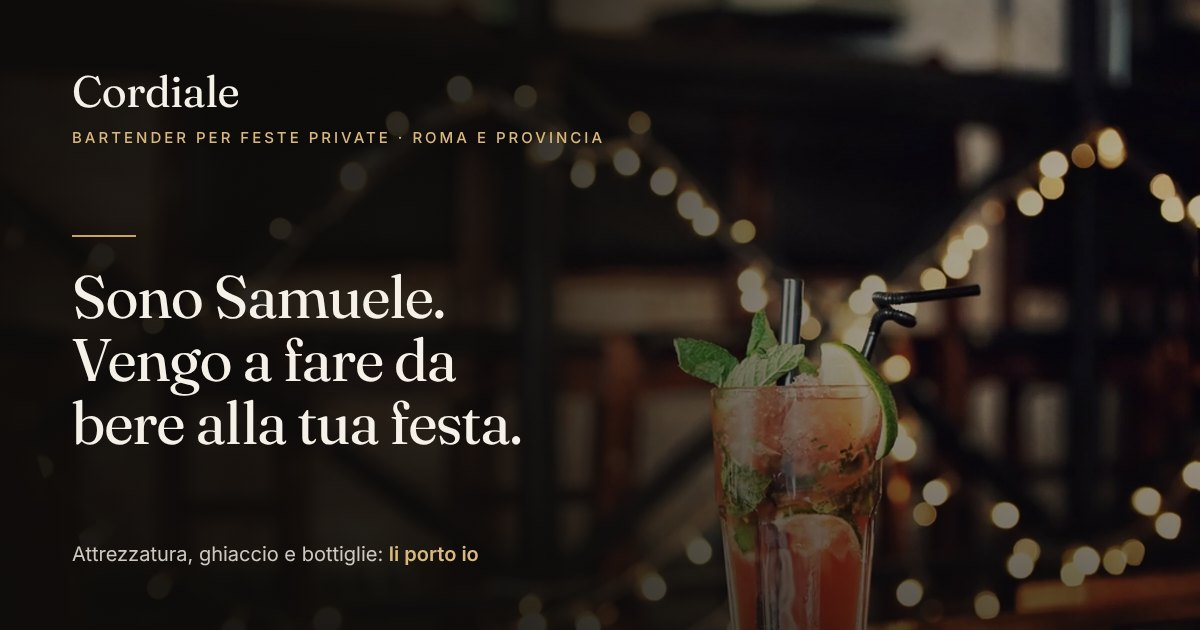
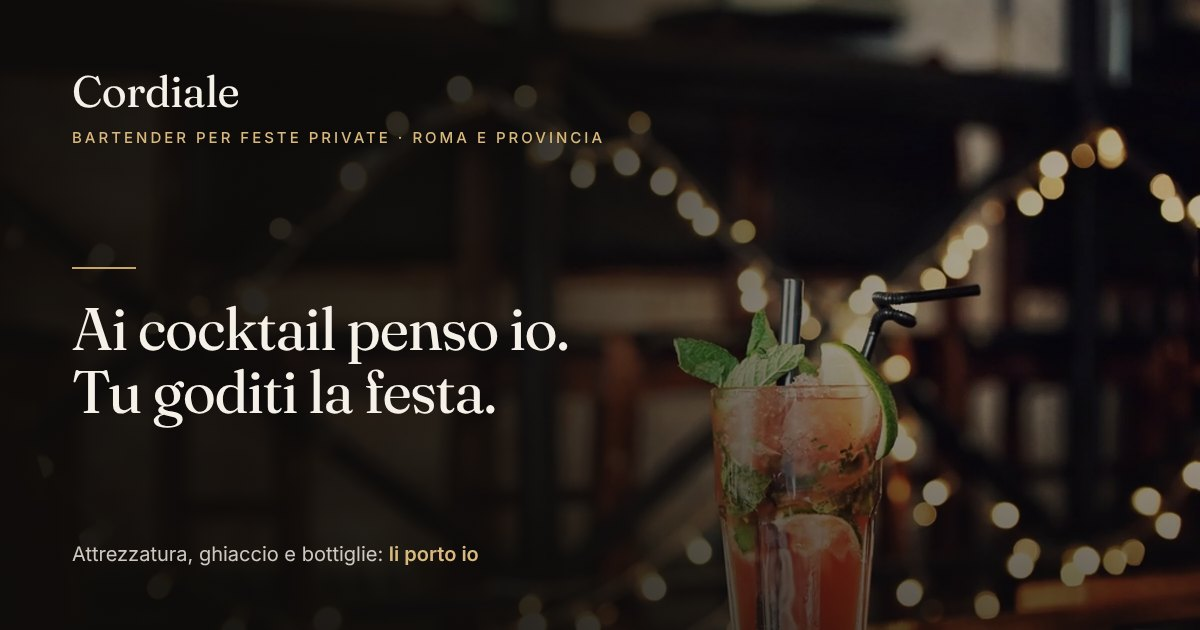
Nuovo titolo della home: "Ai cocktail penso io. Tu goditi la festa."
Il titolo prende l'idea proposta da Samuele, con le parole nell'ordine in
cui si dice ("ci penso io"): "Io penso ai cocktail" si leggeva anche come
"rifletto sui cocktail". In inglese: "I'll take care of the cocktails.
You enjoy the party."

Il sottotitolo non ripete più lo stesso concetto ("Tu pensi agli ospiti")
e riprende il nome uscito dal titolo: "Sono Samuele. Porto io
attrezzatura, ghiaccio e bottiglie e preparo i drink sul posto."

- Ogni frase del titolo va su una riga sua: il bilanciamento automatico
  lo spezzava a metà ("Ai cocktail penso / io. Tu…").
- Velatura dell'apertura un po' più scura dove finisce la prima riga, che
  al computer passa sopra il bicchiere: da 3,9:1 a 5,1:1 nel punto
  peggiore.
- Immagine social rigenerata con il nuovo titolo, una frase per riga.

Su un sito già installato il titolo cambia da solo, a meno che sia stato
modificato dal pannello (Testi e contatti → Home · 1. Apertura).

Verifiche: tsc, eslint e build puliti; 41 URL con lo stato atteso; axe
WCAG 2.2 AA sulla home in italiano e inglese, telefono e desktop, nei due
temi: 0 violazioni; a capo controllati a 1440, 1280, 1024, 820, 390 e
360 px; testo sopra la foto almeno 5:1 ovunque.

Claude-Session: https://claude.ai/code/session_01GvCzQ5UEymkMrF9UDs3Cu9

Changed region(s): [[0.0617, 0.4222, 0.4625, 0.7238], [0.0617, 0.3619, 0.0925, 0.3921]]

diff --git a/src/components/pages/HomePage.tsx b/src/components/pages/HomePage.tsx
@@ -1,3 +1,4 @@
+import { Fragment } from 'react';
 import Link from 'next/link';
 import { Media, mediaExists } from '@/components/Media';
 import { FinalCta } from '@/components/blocks/FinalCta';
@@ -36,6 +37,9 @@ export async function HomePage({ locale }: { locale: Locale }) {
   const whatsappHref = whatsappLink(settings.contact.whatsapp, t(settings.contact.whatsappMessage, locale));
   // A missing file would put the light placeholder under light type.
   const heroImage = mediaExists(settings.hero.imagePath) ? settings.hero.imagePath : '';
+  // One sentence per line: balancing the whole title broke a two-sentence
+  // headline mid-sentence ("Ai cocktail penso / io. Tu goditi…").
+  const heroLines = t(settings.hero.title, locale).split(/(?<=[.!?])\s+/);
 
   const featured = cocktails.slice(0, 3);
   const eventLinks = landings.map((landing) => ({
@@ -87,13 +91,20 @@ export async function HomePage({ locale }: { locale: Locale }) {
         <div className="hero-content container-page w-full pb-14 pt-32 md:pb-20 md:pt-40 lg:pb-24">
           <div className="max-w-2xl lg:max-w-3xl">
             {/* The kicker sits inside the h1 on purpose: the headline is a
-                person talking ("Sono Samuele…") and carries no search terms,
+                person talking ("Ai cocktail penso io…") and carries no search terms,
                 so what he does and where is read as part of the heading. */}
             <h1>
               <span className="eyebrow eyebrow-ruled block">{t(settings.hero.eyebrow, locale)}</span>
               {/* Invisible between two blocks, but without it the heading's
-                  text reads "…Roma e provinciaSono Samuele" to a crawler. */}{' '}
-              <span className="display-hero text-shadow-hero mt-5 block">{t(settings.hero.title, locale)}</span>
+                  text reads "…Roma e provinciaAi cocktail" to a crawler. */}{' '}
+              <span className="display-hero text-shadow-hero mt-5 block">
+                {heroLines.map((line, index) => (
+                  <Fragment key={index}>
+                    {index > 0 && ' '}
+                    <span className="block">{line}</span>
+                  </Fragment>
+                ))}
+              </span>
             </h1>
             <p className="lede mt-6 max-w-xl">{t(settings.hero.subtitle, locale)}</p>
 

diff --git a/src/content/settings.ts b/src/content/settings.ts
@@ -195,12 +195,14 @@ export const defaultSettings: SiteSettings = {
       en: 'Private party bartender · Rome and province',
     },
     title: {
-      it: 'Sono Samuele. Vengo a fare da bere alla tua festa.',
-      en: 'I’m Samuele. I’ll make the drinks at your party.',
+      it: 'Ai cocktail penso io. Tu goditi la festa.',
+      en: 'I’ll take care of the cocktails. You enjoy the party.',
     },
+    // The name moved here from the title: the opening still says who, what
+    // and where — the eyebrow carries the what and the where.
     subtitle: {
-      it: 'Porto io attrezzatura, ghiaccio e bottiglie. Tu pensi agli ospiti.',
-      en: 'I bring the kit, the ice and the bottles. You look after your guests.',
+      it: 'Sono Samuele. Porto io attrezzatura, ghiaccio e bottiglie e preparo i drink sul posto.',
+      en: 'I’m Samuele. I bring the kit, the ice and the bottles, and make the drinks on the spot.',
     },
     primaryCta: { it: 'Chiedimi un preventivo', en: 'Ask me for a quote' },
     imagePath: '/images/hero/hero-main.jpg',

diff --git a/src/app/globals.css b/src/app/globals.css
@@ -642,7 +642,7 @@
     .hero-scrim {
       background:
         linear-gradient(to bottom, rgb(14 12 10 / 0.86) 0%, rgb(14 12 10 / 0.62) 9%, rgb(14 12 10 / 0) 26%),
-        linear-gradient(100deg, rgb(14 12 10 / 0.92) 0%, rgb(14 12 10 / 0.78) 38%, rgb(14 12 10 / 0.3) 68%, rgb(14 12 10 / 0.12) 100%),
+        linear-gradient(100deg, rgb(14 12 10 / 0.92) 0%, rgb(14 12 10 / 0.8) 40%, rgb(14 12 10 / 0.5) 62%, rgb(14 12 10 / 0.18) 82%, rgb(14 12 10 / 0.1) 100%),
         linear-gradient(to top, rgb(14 12 10 / 0.6) 0%, rgb(14 12 10 / 0) 45%);
     }
   }

diff --git a/docs/04-design-system.md b/docs/04-design-system.md
@@ -226,8 +226,11 @@ Requisiti trattati come vincoli di build, non come rifiniture.
   aperto il resto della pagina è `inert`: il `Tab` non finisce su link coperti.
 - **Testo sopra la foto** — axe non sa misurarlo, quindi è misurato a parte:
   il colore del testo contro il pixel più chiaro (99° percentile) della foto
-  velata dietro ogni riga. Minimo 5,2:1 (l'occhiello al telefono), titolo e
-  sottotitolo sopra 10:1, voci dell'intestazione sopra 8:1.
+  velata dietro ogni riga. Minimo 5:1 (l'occhiello al telefono, e al
+  computer la fine della prima riga del titolo, che passa sopra il bicchiere),
+  sottotitolo sopra 10:1, voci dell'intestazione sopra 8:1. Ogni frase del
+  titolo va su una riga sua: il bilanciamento automatico spezzava a metà
+  "Ai cocktail penso / io.".
 - **Verifica** — axe con le regole WCAG 2.2 AA su 15 pagine, telefono e
   desktop, **in entrambi i temi**: zero violazioni (ottobre 2026).
   L'interruttore è provato con clic, `Invio`, `Spazio`, tocco, "riduci
